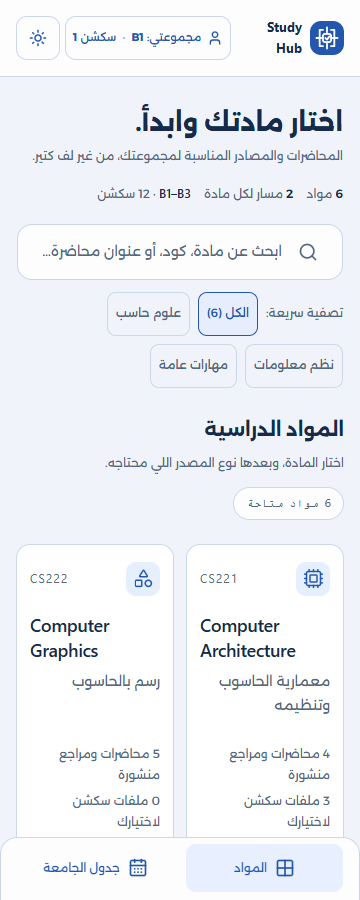
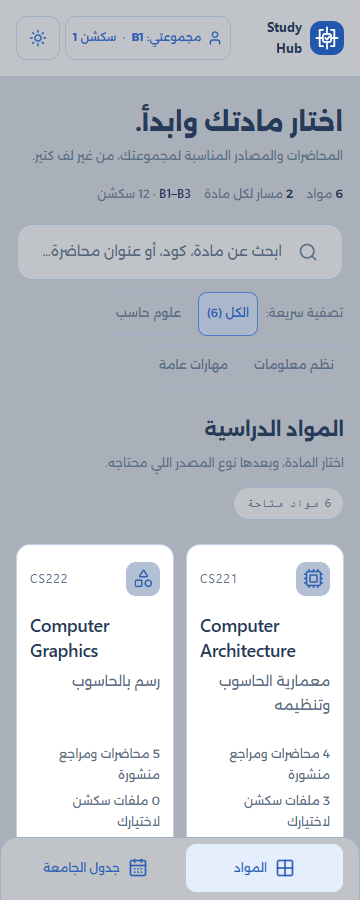
fix: initialize saved theme before paint and fit fallback fonts on mobile

diff --git a/css/a1-journey.css b/css/a1-journey.css
@@ -122,8 +122,8 @@ body.a1 .a1-question-map .q-map-pill[aria-current="step"] {outline:2px solid var
 .a1-quiz-main #full-quiz-summary-card {margin-top:20px}
 
 @media(max-width:1023px) {
- .a1-course-layout {display:flex;flex-direction:column;gap:15px}
- .a1-course-context {order:-1;position:static;width:100%;padding:12px 16px}
+ .a1-course-layout {display:flex;flex-direction:column;gap:12px}
+ .a1-course-context {order:-1;position:static;width:100%;padding:8px 14px}
  .a1-course-context>summary {min-height:30px;font-size:12px}
  .a1-materials {width:100%}
 }
@@ -133,10 +133,12 @@ body.a1 .a1-question-map .q-map-pill[aria-current="step"] {outline:2px solid var
  .a1-course-link .a1-course-title p {min-height:3.4em}
  body.a1 .a1-course>.a1-assignment-link {padding:9px 13px}
  .a1-course-enter {font-size:12px}
- .a1-course-heading-panel {padding:8px 0 18px!important}
+ .a1-course-breadcrumb {margin-bottom:8px!important;padding-bottom:6px!important}
+ .a1-course-heading-panel {padding:4px 0 10px!important}
  body.a1 .a1-course-title-line h1 {font-size:26px}
  .a1-course-heading-panel #subject-desc {font-size:12px}
- .a1-resource-tabs {gap:2px;padding:4px;margin-bottom:17px}
+ .a1-track-tabs {margin-bottom:10px}
+ .a1-resource-tabs {gap:2px;padding:4px;margin-bottom:12px}
  .a1-resource-tabs button {flex:1 1 auto;font-size:11px;padding:7px 9px}
  body.a1 .a1-family-panel>div:first-child {flex-wrap:wrap}
  body.a1 .a1-family-panel>.a1-family-heading {flex-wrap:nowrap;gap:8px}

diff --git a/index.html b/index.html
@@ -4,6 +4,8 @@
   <meta charset="UTF-8">
   <meta name="viewport" content="width=device-width, initial-scale=1.0">
   <title>Study Hub | مصادر المواد الدراسية</title>
+  <script src="js/shared/storage.js"></script>
+  <script src="js/theme.js?v=1792424832344"></script>
   
   <!-- Local A1 font; no required font CDN. -->
   <link rel="stylesheet" href="css/fonts/fonts.css">
@@ -185,11 +187,9 @@
 
   <nav class="a1-mobile-nav" aria-label="أقسام الرئيسية"><a href="#courses-section"><i data-lucide="grid-2x2" aria-hidden="true"></i>المواد</a><a href="#schedule-section"><i data-lucide="calendar-days" aria-hidden="true"></i>جدول الجامعة</a></nav>
   <!-- ملفات الجافاسكربت -->
-  <script src="js/shared/storage.js"></script>
   <script src="js/shared/dialog.js"></script>
   <script src="js/shared/media.js"></script>
   <script src="js/shared/ui.js"></script>
-  <script src="js/theme.js?v=1792424832344"></script>
   <script src="js/courses-data.js?v=1792424832344"></script>
   <script src="js/schedule-data.js?v=1792424832344"></script>
   <script src="js/a1-identity.js"></script>

diff --git a/subject.html b/subject.html
@@ -4,6 +4,8 @@
   <meta charset="UTF-8">
   <meta name="viewport" content="width=device-width, initial-scale=1.0">
   <title>تفاصيل المادة | Study Hub</title>
+  <script src="js/shared/storage.js"></script>
+  <script src="js/theme.js?v=1792424832344"></script>
   
   <!-- Local A1 font; no required font CDN. -->
   <link rel="stylesheet" href="css/fonts/fonts.css">
@@ -639,11 +641,9 @@
   </footer>
 
   <!-- ملفات الجافاسكربت -->
-  <script src="js/shared/storage.js"></script>
   <script src="js/shared/dialog.js"></script>
   <script src="js/shared/ui.js"></script>
   <script src="js/shared/media.js"></script>
-  <script src="js/theme.js?v=1792424832344"></script>
   <script src="js/courses-data.js?v=1792424832344"></script>
   <script src="js/schedule-data.js?v=1792424832344"></script>
   <script src="js/a1-identity.js"></script>

diff --git a/docs/STUDY-HUB-REVIEW.md b/docs/STUDY-HUB-REVIEW.md
@@ -13,6 +13,8 @@ This is the current implementation handoff. Earlier dated documents describe the
 
 The scientific data, original slide images, source links and timetable records are unchanged. The content hash test accepts Git's LF/CRLF checkout conversion for text files only; binary assets still require their exact original hashes. The separately discussed progress/resume/backup features are not implemented.
 
+The first GitHub CI run exposed two host-dependent UI failures: late theme initialization animated from the default palette, and wider fallback font metrics pushed the first lecture action below a 360×900 viewport. Theme initialization now runs in the head before styles/body paint, and mobile pre-source spacing is smaller while controls and font sizes remain intact. Both failures were reproduced locally before fixing them; regressions include delayed theme loading and Arial fallback metrics.
+
 ## Run and continue work
 
 Use Node.js 24 or newer. From the repository:
